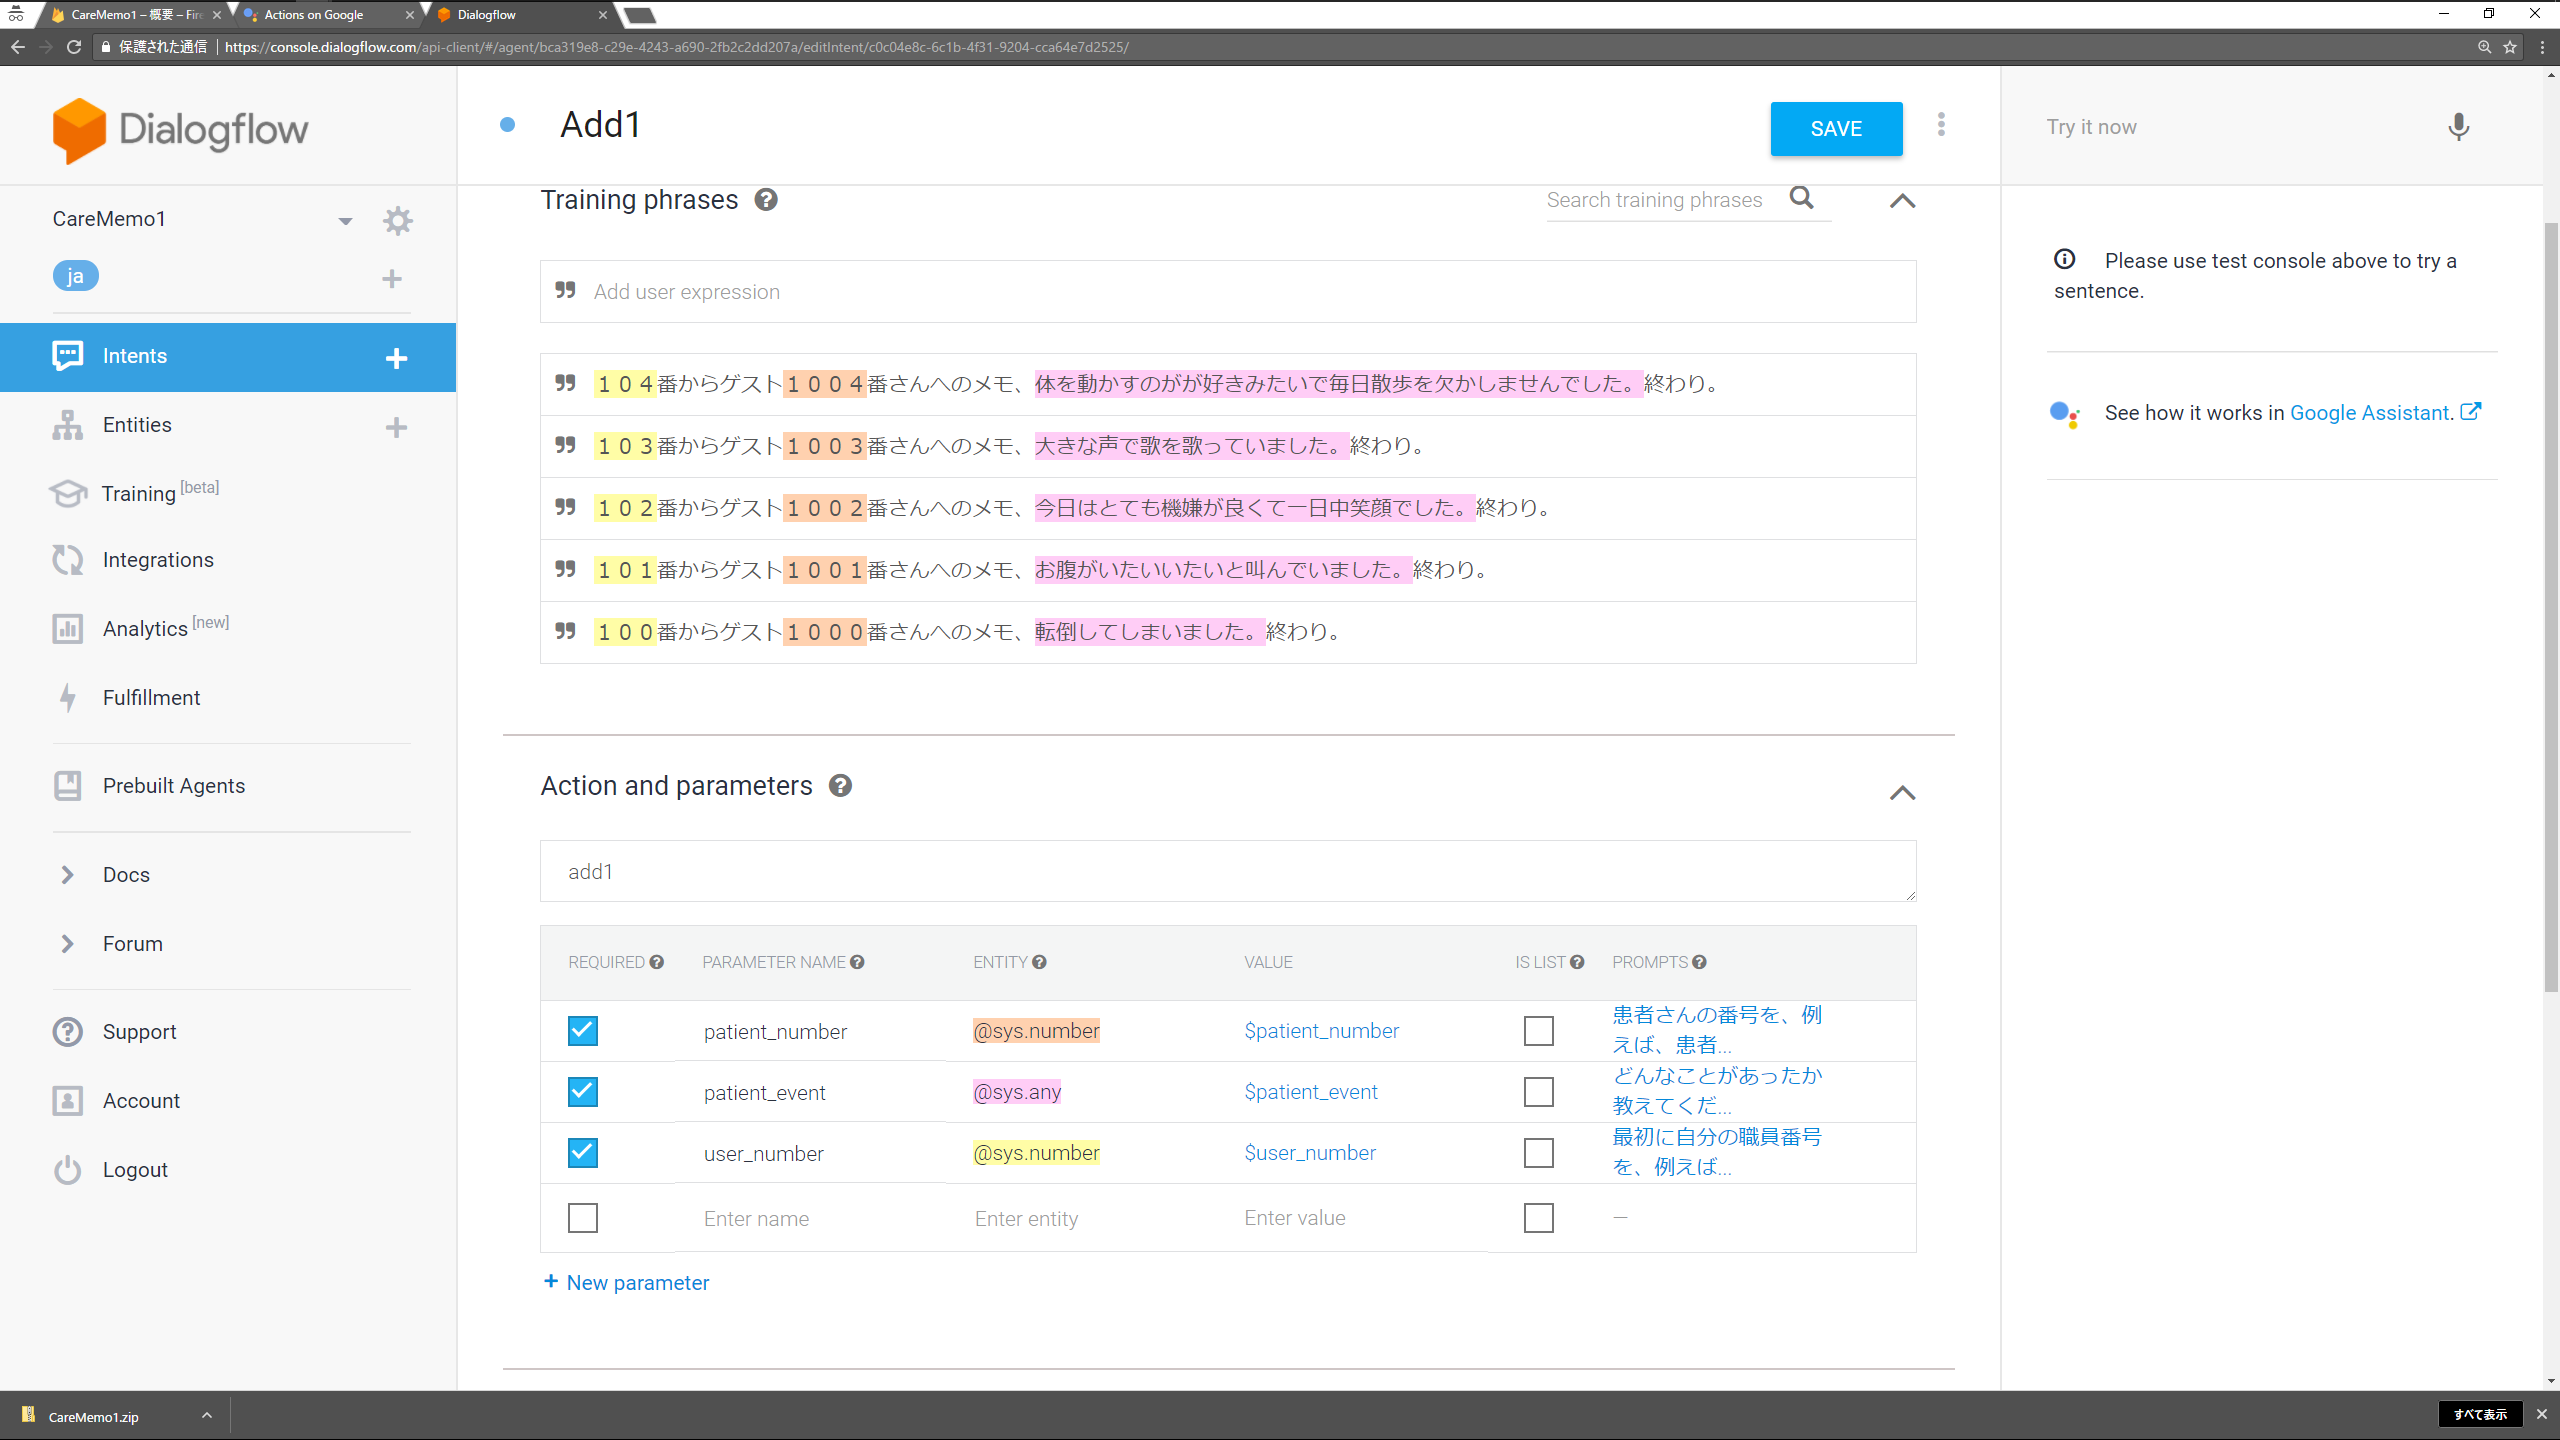
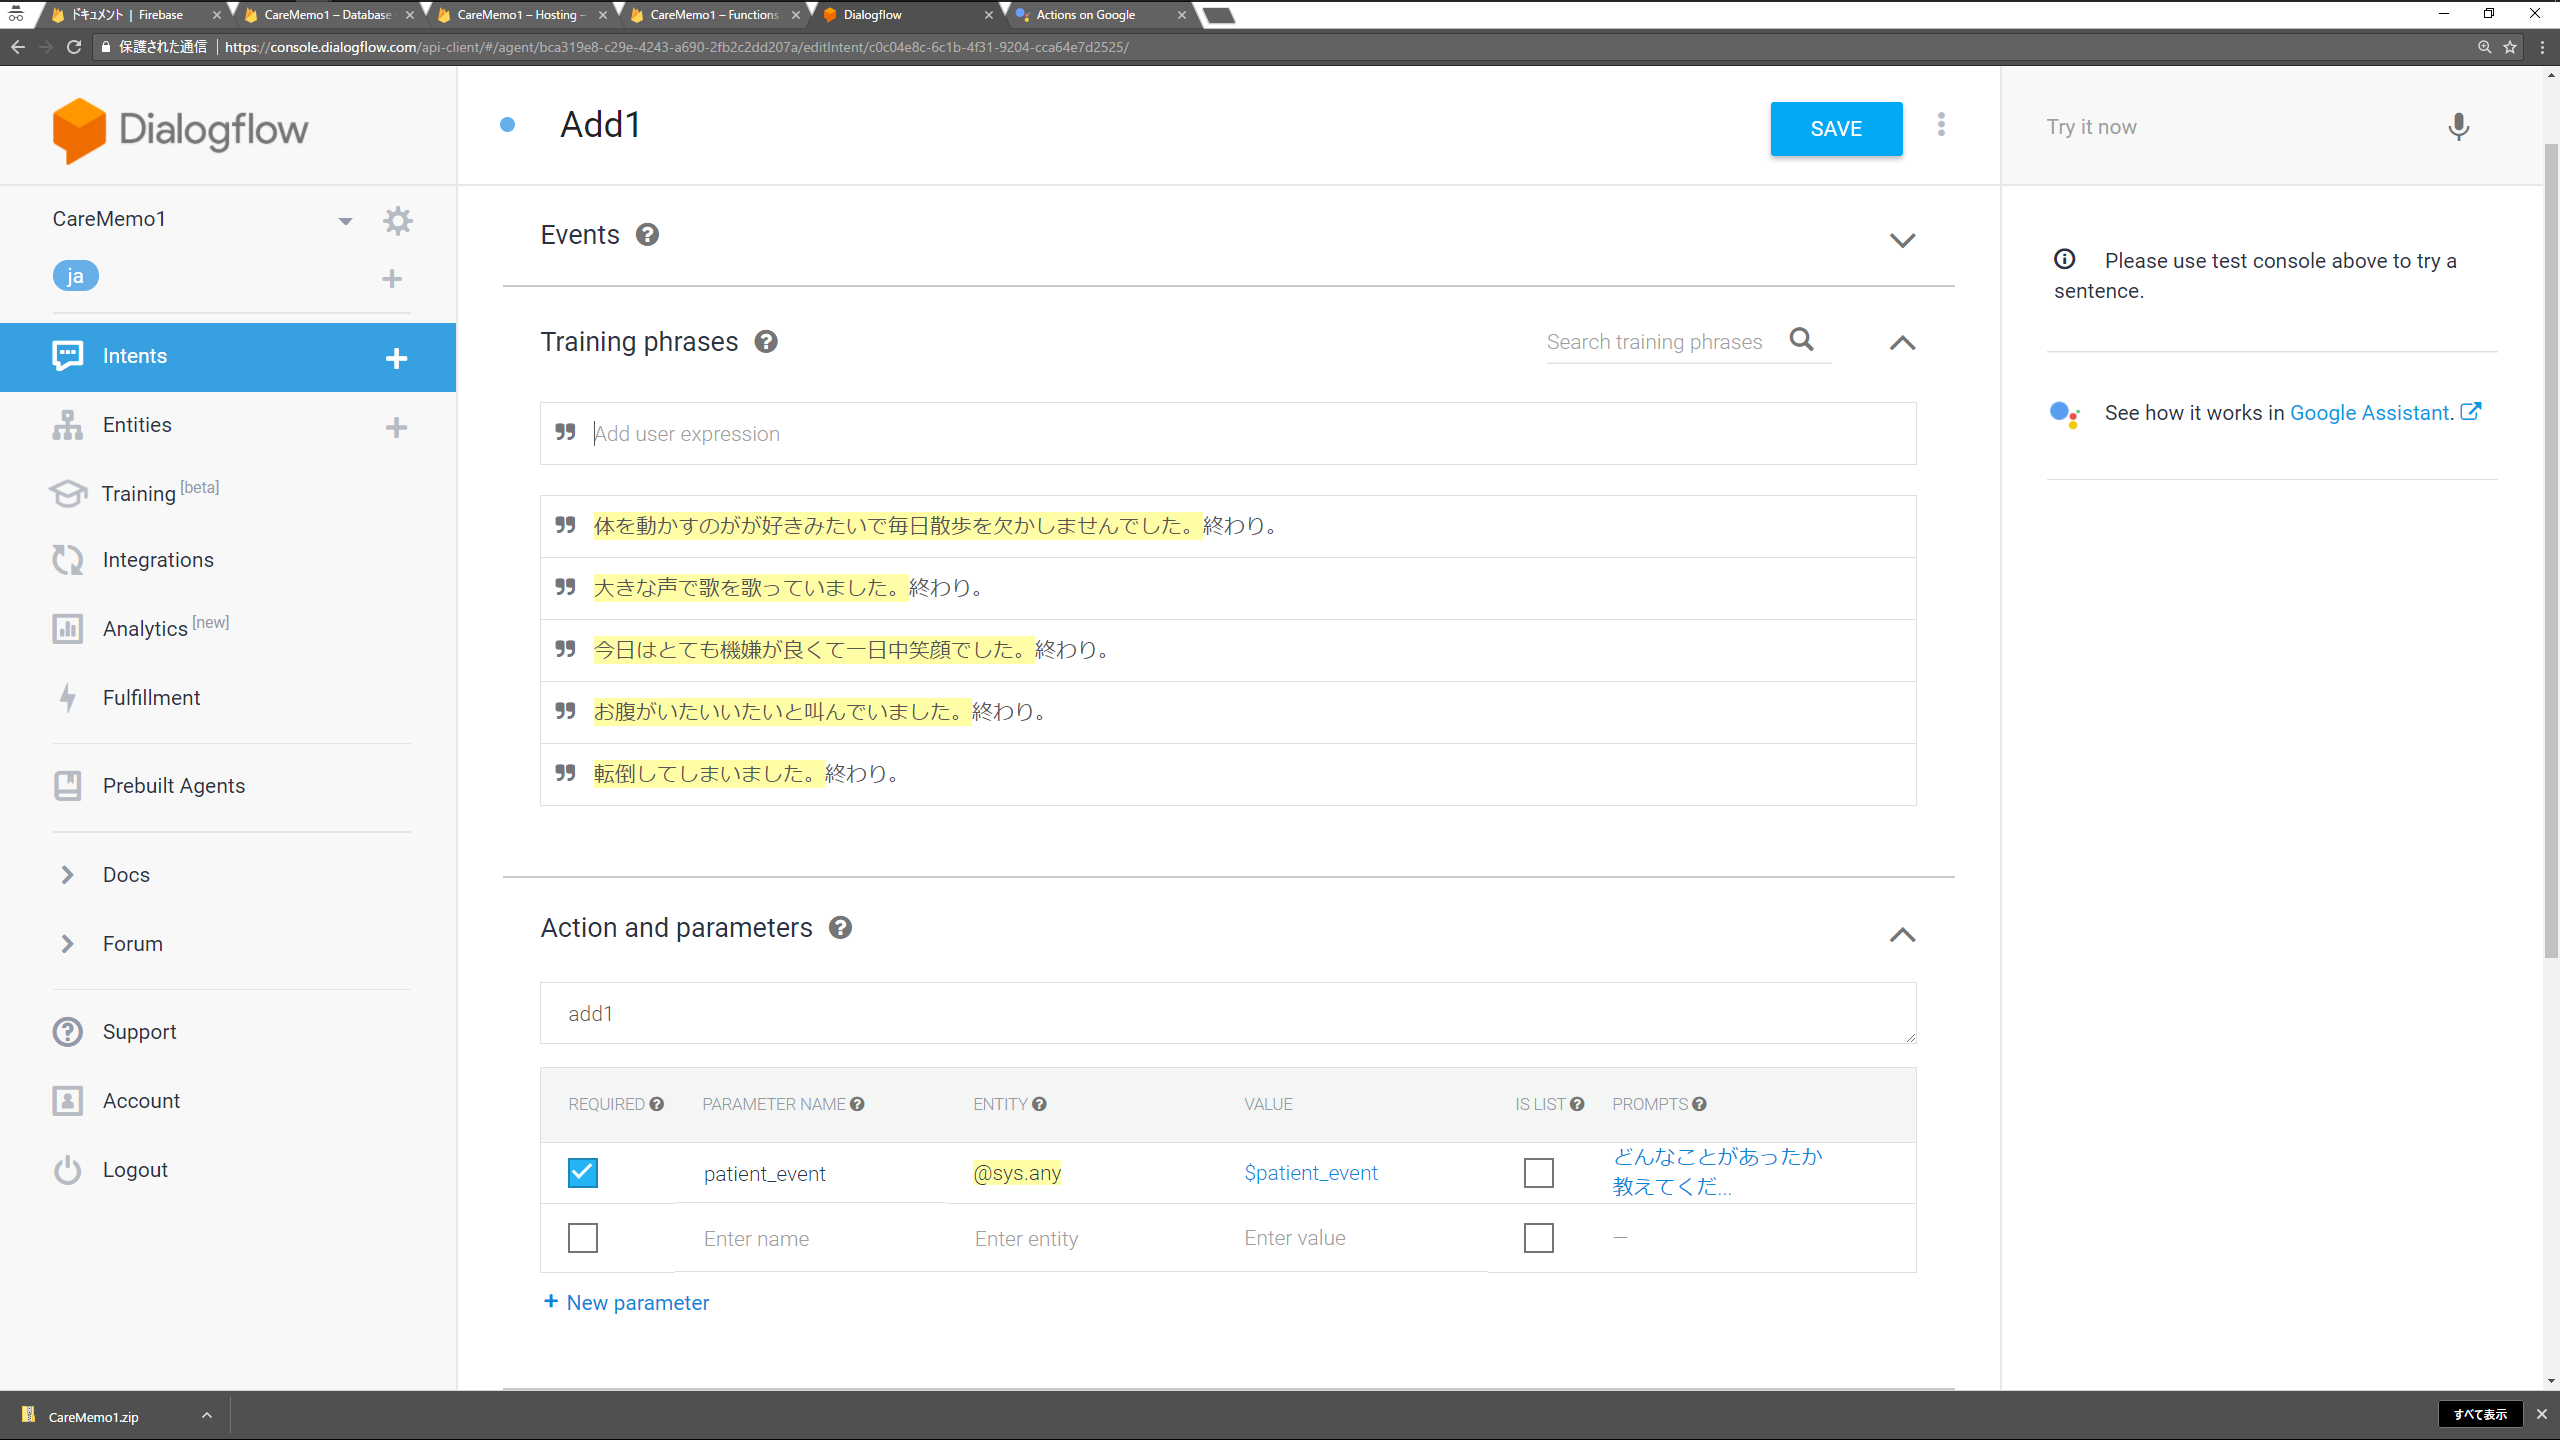
Voice input made simple for meeting with client on 20180308 (#24)

diff --git a/action/functions/index.js b/action/functions/index.js
@@ -8,6 +8,8 @@ admin.initializeApp(functions.config().firebase);
 
 
 exports.add1 = functions.https.onRequest((request, response) => {
+  console.log("21");
+
   console.log('Request headers: ' + JSON.stringify(request.headers));
   console.log('Request body: ' + JSON.stringify(request.body));
 
@@ -32,8 +34,32 @@ exports.add1 = functions.https.onRequest((request, response) => {
       .once('value');
   }
 
+  function responseHandlerAdd1Simple (app) {
+
+    const event = app.getArgument('patient_event');
+
+    const item = {
+      timestamp: admin.database.ServerValue.TIMESTAMP,
+      number: 0,
+      event: event,
+      user_id: 'u0',
+      patient_id: 'p0',
+      title: '',
+      event_care: event,
+      event_smile: '',
+      timestamp_evented: admin.database.ServerValue.TIMESTAMP,
+      timestamp_created: admin.database.ServerValue.TIMESTAMP,
+      user_created: 'u0', };
+
+    return admin.database().ref('memos').push(item).then(snapshot => {
+      console.log("success.");
+      app.tell(event + '、をメモしました。');
+      }).catch((c2) => {
+        console.log("c2");
+      });
+  }
+
   function responseHandlerAdd1 (app) {
-    console.log("18");
 
     const userNumber = app.getArgument('user_number');
     const patientNumber = app.getArgument('patient_number');
@@ -115,7 +141,7 @@ exports.add1 = functions.https.onRequest((request, response) => {
   }
 
   const actionMap = new Map();
-  actionMap.set('add1', responseHandlerAdd1);
+  actionMap.set('add1', responseHandlerAdd1Simple);
 
   app.handleRequest(actionMap);
 });
